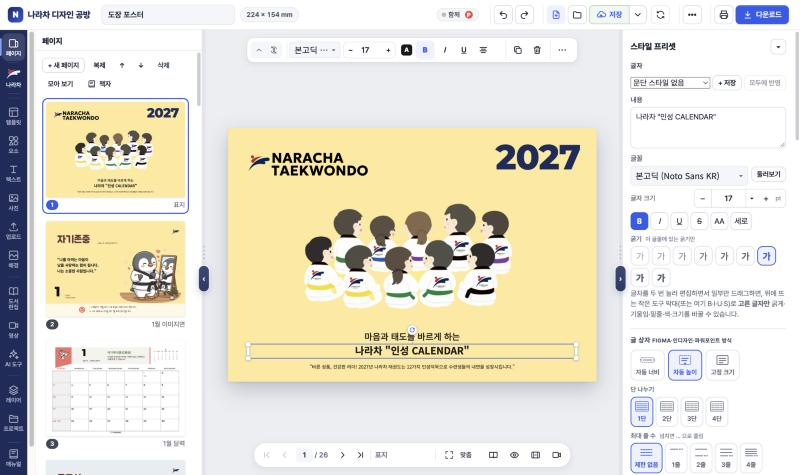
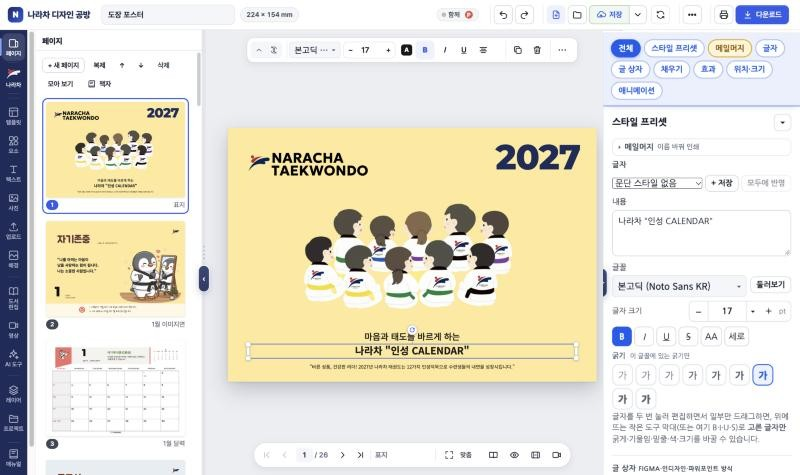
메일머지 이름표·라벨 모아 찍기(10~24칸)·엑셀 숫자 서식 · 매뉴얼 첫 그림 속성 탭 (20261127.1932)

Changed region(s): [[0.75, 0.2947, 1.0, 1.0], [0.75, 0.0589, 1.0, 0.2947], [0.875, 0.5011, 0.9688, 0.56]]

diff --git a/app.js b/app.js
@@ -4215,6 +4215,17 @@ function mmCsvParse(t) {
     if (ch === '"' && cell === '') q = true; else if (ch === sep) { rows[rows.length - 1].push(cell); cell = ''; } else if (ch === '\n') { rows[rows.length - 1].push(cell); cell = ''; rows.push([]); } else cell += ch; }
   rows[rows.length - 1].push(cell); return rows;
 }
+/* 엑셀 숫자 칸 서식 흉내 (11/27): 천 단위 쉼표 #,##0 · 소수 0.00 · 백분율 % · 따옴표 글자("원") — 엑셀 화면에 보이는 모양 그대로 메일머지에 */
+function xlNum(n, code) {
+  try { const secs = String(code).split(';'), neg = n < 0 && secs[1] != null; let c = (neg ? secs[1] : secs[0]).replace(/\[[^\]]*\]/g, ''); const v0 = neg ? Math.abs(n) : n;
+    const lit = []; const c2 = c.replace(/"([^"]*)"|\\(.)/g, (m, a, b) => { lit.push(a != null ? a : b); return '\u0001'; });
+    const m = c2.match(/[#0,.]*[#0][#0,.]*/); if (!m) return String(Number(n.toPrecision(15)));
+    const pat = m[0], [ip, fp = ''] = pat.split('.'), pct = /%/.test(c2), v = v0 * (pct ? 100 : 1);
+    const num = v.toLocaleString('en-US', { minimumIntegerDigits: Math.max(1, Math.min(21, (ip.match(/0/g) || []).length)), minimumFractionDigits: (fp.match(/0/g) || []).length, maximumFractionDigits: (fp.match(/[0#]/g) || []).length, useGrouping: /,/.test(ip) });
+    let k = 0; const fill = t => t.replace(/\u0001/g, () => lit[k++] || '').replace(/[_*]./g, '');
+    return (fill(c2.slice(0, m.index)) + num + fill(c2.slice(m.index + pat.length))).trim();
+  } catch (e) { return String(Number(n.toPrecision(15))); }
+}
 function xlDate(n, kind) { const d = new Date(Math.round((n - 25569) * 864e5)), y = d.getUTCFullYear(), m = d.getUTCMonth() + 1, dd = d.getUTCDate(); return kind === 'k' ? `${y}년 ${m}월 ${dd}일` : `${y}-${String(m).padStart(2, '0')}-${String(dd).padStart(2, '0')}`; }
 /* .xlsx 읽기 — 압축(JSZip)을 풀어 시트 XML을 직접 읽음(따로 큰 라이브러리 없이). 글자·숫자·날짜·참거짓·수식 결과 */
 async function xlsxSheets(buf) {
@@ -4224,7 +4235,8 @@ async function xlsxSheets(buf) {
   const ss = tags(X(await rd('xl/sharedStrings.xml')), 'si').map(si => tags(si, 't').filter(t => !(t.parentNode && t.parentNode.localName === 'rPh')).map(t => t.textContent).join(''));
   const st = X(await rd('xl/styles.xml')), fmt = {}; tags(st, 'numFmt').forEach(n => { fmt[n.getAttribute('numFmtId')] = n.getAttribute('formatCode') || ''; });
   const xfBox = tags(st, 'cellXfs')[0], xfs = (xfBox ? tags(xfBox, 'xf') : []).map(x => { const id = Number(x.getAttribute('numFmtId') || 0), code = (fmt[id] || '').replace(/"[^"]*"|\[[^\]]*\]|\\./g, ''), kr = /년/.test(fmt[id] || '');
-    if ((id >= 14 && id <= 17) || id === 22) return 'd'; if ((id >= 27 && id <= 36) || (id >= 50 && id <= 58)) return 'k'; return code && /[yd]/i.test(code) ? (kr ? 'k' : 'd') : ''; });
+    if ((id >= 14 && id <= 17) || id === 22) return 'd'; if ((id >= 27 && id <= 36) || (id >= 50 && id <= 58)) return 'k'; if (code && /[yd]/i.test(code)) return kr ? 'k' : 'd';
+    const bi = { 2: '0.00', 3: '#,##0', 4: '#,##0.00', 9: '0%', 10: '0.00%', 37: '#,##0', 38: '#,##0', 39: '#,##0.00', 40: '#,##0.00' }[id], fc = fmt[id] || bi; return fc && fc !== 'General' && /[0#]/.test(fc) ? { c: fc } : ''; });
   const out = [];
   for (const sh of tags(wb, 'sheet')) {
     const rid = [...sh.attributes].find(a => a.localName === 'id'), tg0 = rel[rid ? rid.value : ''] || ''; let tg = tg0.replace(/^\//, ''); if (!tg.startsWith('xl/')) tg = 'xl/' + tg;
@@ -4232,7 +4244,7 @@ async function xlsxSheets(buf) {
     tags(doc2, 'row').forEach(r => { const ri = Number(r.getAttribute('r')) - 1, row = [];
       tags(r, 'c').forEach((c, k) => { const L = ((c.getAttribute('r') || '').match(/^[A-Z]+/) || [''])[0], ci = L ? [...L].reduce((n, ch) => n * 26 + ch.charCodeAt(0) - 64, 0) - 1 : k; if (ci > 60) return;
         const t = c.getAttribute('t') || '', vEl = tags(c, 'v')[0], v = vEl ? vEl.textContent : ''; let val = '';
-        if (t === 's') val = ss[Number(v)] || ''; else if (t === 'inlineStr') val = tags(c, 't').map(x => x.textContent).join(''); else if (t === 'b') val = v === '1' ? 'TRUE' : 'FALSE'; else if (t === 'str') val = v; else if (t !== 'e' && v !== '') { const n = Number(v), df = xfs[Number(c.getAttribute('s') || 0)]; val = df && n > 0 && n < 2958466 ? xlDate(n, df) : String(Number(n.toPrecision(15))); }
+        if (t === 's') val = ss[Number(v)] || ''; else if (t === 'inlineStr') val = tags(c, 't').map(x => x.textContent).join(''); else if (t === 'b') val = v === '1' ? 'TRUE' : 'FALSE'; else if (t === 'str') val = v; else if (t !== 'e' && v !== '') { const n = Number(v), df = xfs[Number(c.getAttribute('s') || 0)]; val = typeof df === 'string' && df && n > 0 && n < 2958466 ? xlDate(n, df) : df && df.c ? xlNum(n, df.c) : String(Number(n.toPrecision(15))); }
         row[ci] = val; });
       if (ri >= 0 && ri < 5000) rows[ri] = row; else if (rows.length < 5000) rows.push(row); });
     out.push({ name: sh.getAttribute('name') || `시트${out.length + 1}`, hidden: sh.getAttribute('state') === 'hidden', rows: Array.from(rows, r => Array.from(r || [], v => v == null ? '' : String(v))) });
@@ -8180,7 +8192,7 @@ function prLayout() {
 }
 /* 모아 찍기 (워드 '한 면에 인쇄할 페이지 수'처럼, 11/19 팀장님 "A4에 출석부 2장"): 종이 방향·칸 배치(행×열)는 쪽이 가장 크게 들어가는 쪽으로 자동,
    '방향'을 세로·가로로 고르면 그 방향 안에서만. 칸마다 가운데, 크기 = 용지에 맞춤이면 칸에 맞게 줄임 · 실제 크기·배율은 그대로. 순서 = 가로 먼저(워드 기본)·세로 먼저 */
-const PR_NUP_GRID = { 2: [[1, 2], [2, 1]], 4: [[2, 2], [1, 4], [4, 1]], 6: [[2, 3], [3, 2]], 8: [[2, 4], [4, 2]], 16: [[4, 4]] };
+const PR_NUP_GRID = { 2: [[1, 2], [2, 1]], 4: [[2, 2], [1, 4], [4, 1]], 6: [[2, 3], [3, 2]], 8: [[2, 4], [4, 2]], 10: [[5, 2], [2, 5]], 12: [[4, 3], [3, 4]], 16: [[4, 4]], 21: [[7, 3], [3, 7]], 24: [[8, 3], [3, 8]] };  /* 10~24: 이름표·라벨(메일머지와 함께 — 한 장에 여러 사람, 11/27) */
 function prNupLayout(S, M) {
   const n = Number(S.nup) || 1, base = S.paper === 'doc' ? [doc.w, doc.h] : (PR_PAPERS[S.paper] || PR_PAPERS.A4), gap = Math.max(0, Number(S.nupGap) || 0);
   const ors = S.orient === 'p' ? [[Math.min(...base), Math.max(...base)]] : S.orient === 'l' ? [[Math.max(...base), Math.min(...base)]] : [[Math.min(...base), Math.max(...base)], [Math.max(...base), Math.min(...base)]];
@@ -8216,13 +8228,14 @@ function mmPrWho(S) { if (!(S && S.mm !== false && mmActive())) return null; con
 function pvHTML(S, list, L, pvI) {
   const C = doc.cert, PV = 340, mmpx = Math.min(PV / L.pw, (PV * 1.3) / L.ph); /* 미리 보기 1mm = mmpx px */
   const keepVis = []; if (C || doc.att) doc.pages.forEach(p => p.els.forEach(e => { if (e.certFrame) { keepVis.push(e.id); elVisOv.set(e.id, !!S.frame); } }));
-  const nup = L.cells ? L.nup : 1, nSh = Math.max(1, Math.ceil(list.length / nup)), sh = Math.min(S.pv, nSh - 1), kk = (L.w * mmpx) / (doc.w * MM), mmW = mmPrWho(S);  /* 메일머지: 미리 볼 사람 이름으로 */
-  const one = (pi, R) => `<div class="prpage" style="left:${R.x * mmpx}px;top:${R.y * mmpx}px;width:${R.w * mmpx}px;height:${R.h * mmpx}px"><div style="transform:scale(${kk});transform-origin:0 0;position:absolute;left:0;top:0">${sheetHTML(mmW ? Object.assign({}, doc.pages[pi], { _mm: mmW }) : doc.pages[pi], 'thumb')}</div></div>`;
-  let sheet = ''; try { if (L.cells) { list.slice(sh * nup, sh * nup + nup).forEach((pi, j) => { sheet += one(pi, L.cells[j]); }); if (S.nupCut) sheet += prCutLines(L).map(([x1, y1, x2, y2]) => `<div class="prcut" style="left:${Math.min(x1, x2) * mmpx}px;top:${Math.min(y1, y2) * mmpx}px;width:${Math.max(1, Math.abs(x2 - x1) * mmpx)}px;height:${Math.max(1, Math.abs(y2 - y1) * mmpx)}px"></div>`).join(''); } else if (pvI != null) sheet = one(pvI, L); } finally { keepVis.forEach(id => elVisOv.delete(id)); }
+  const mmW = mmPrWho(S), J = L.cells && mmW ? mmJobs(list, true) : null, LL = J || list;  /* 메일머지 + 모아 찍기: 한 장에 사람들이 차례로 (11/27 이름표·라벨) */
+  const nup = L.cells ? L.nup : 1, nSh = Math.max(1, Math.ceil(LL.length / nup)), sh = Math.min(S.pv, nSh - 1), kk = (L.w * mmpx) / (doc.w * MM);  /* 메일머지: 미리 볼 사람 이름으로 */
+  const one = (pi, R) => `<div class="prpage" style="left:${R.x * mmpx}px;top:${R.y * mmpx}px;width:${R.w * mmpx}px;height:${R.h * mmpx}px"><div style="transform:scale(${kk});transform-origin:0 0;position:absolute;left:0;top:0">${sheetHTML(typeof pi !== 'number' ? pi : mmW ? Object.assign({}, doc.pages[pi], { _mm: mmW }) : doc.pages[pi], 'thumb')}</div></div>`;
+  let sheet = ''; try { if (L.cells) { LL.slice(sh * nup, sh * nup + nup).forEach((pi, j) => { sheet += one(pi, L.cells[j]); }); if (S.nupCut) sheet += prCutLines(L).map(([x1, y1, x2, y2]) => `<div class="prcut" style="left:${Math.min(x1, x2) * mmpx}px;top:${Math.min(y1, y2) * mmpx}px;width:${Math.max(1, Math.abs(x2 - x1) * mmpx)}px;height:${Math.max(1, Math.abs(y2 - y1) * mmpx)}px"></div>`).join(''); } else if (pvI != null) sheet = one(pvI, L); } finally { keepVis.forEach(id => elVisOv.delete(id)); }
   const M = L.M, mgBox = `<div class="prmgline ${M.t || M.b || M.l || M.r ? '' : 'zero'}" style="left:${M.l * mmpx}px;top:${M.t * mmpx}px;right:${M.r * mmpx}px;bottom:${M.b * mmpx}px"></div>`
     + [['t', `left:0;right:0;top:${M.t * mmpx}px`], ['b', `left:0;right:0;bottom:${M.b * mmpx}px`], ['l', `top:0;bottom:0;left:${M.l * mmpx}px`], ['r', `top:0;bottom:0;right:${M.r * mmpx}px`]].map(([k, st]) => `<div class="prmgh prmgh-${k}" data-mgh="${k}" style="${st}" title="끌어서 ${({ t: '위', b: '아래', l: '왼쪽', r: '오른쪽' })[k]} 여백 바꾸기 (${M[k]}mm)"></div>`).join('');  /* 여백 선 끌기 (워드 눈금자처럼) */
   return `<div class="prpaper" style="width:${L.pw * mmpx}px;height:${L.ph * mmpx}px"><div class="prmargin" style="inset:${3 * mmpx}px" title="보통 프린터가 못 찍는 가장자리(약 3mm) — 테두리 없음이 아니면 이 밖은 잘릴 수 있음"></div>${sheet}${mgBox}</div>
-        <div class="prpvnav">${(L.cells ? nSh : list.length) > 1 ? pagerHTML('print', L.cells ? sh : S.pv, L.cells ? nSh : list.length, { sm: true, unit: L.cells ? '장' : '쪽' }) : ''}<span class="prpvlb">${!list.length ? '출력할 쪽이 없습니다' : L.cells ? `${nSh > 1 ? '' : '종이 1장 · '}${list.slice(sh * nup, sh * nup + nup).map(i => pgNo(i)).join('·')}쪽` : (list.length > 1 ? `문서 ${pgNo(pvI)}쪽` : `${list.length}쪽 (문서 ${pgNo(pvI)}쪽)`)}</span></div>
+        <div class="prpvnav">${(L.cells ? nSh : list.length) > 1 ? pagerHTML('print', L.cells ? sh : S.pv, L.cells ? nSh : list.length, { sm: true, unit: L.cells ? '장' : '쪽' }) : ''}<span class="prpvlb">${!list.length ? '출력할 쪽이 없습니다' : L.cells ? (J ? `${nSh > 1 ? '' : '종이 1장 · '}${esc(J.slice(sh * nup, sh * nup + nup).map(j => j._mm ? j._mm.n : '').filter(Boolean).filter((v, i, a) => a.indexOf(v) === i).slice(0, 4).join('·'))}${J.slice(sh * nup, sh * nup + nup).length > 4 ? ' …' : ''}` : `${nSh > 1 ? '' : '종이 1장 · '}${list.slice(sh * nup, sh * nup + nup).map(i => pgNo(i)).join('·')}쪽`) : (list.length > 1 ? `문서 ${pgNo(pvI)}쪽` : `${list.length}쪽 (문서 ${pgNo(pvI)}쪽)`)}</span></div>
         <p class="hint prsize">${L.cells ? `<b>한 장에 ${L.nup}쪽</b> (${L.rows}×${L.cols}, 종이 ${Math.round(L.pw)}×${Math.round(L.ph)} ${L.pw > L.ph ? '가로' : '세로'}) · ` : ''}디자인 ${Math.round(doc.w)}×${Math.round(doc.h)}mm → ${L.cells ? '한 칸에' : '종이에'} <b>${Math.round(L.w * 10) / 10}×${Math.round(L.h * 10) / 10}mm (${Math.round(L.k * 1000) / 10}%)</b>${L.note ? ` · <b style="color:#b3261e">${esc(L.note)}</b>` : ''}</p>`;
 }
 /* 여백 그림 (워드 여백 대화창의 미리 보기처럼): 종이와 여백 안쪽(찍히는 자리) */
@@ -8251,7 +8264,7 @@ function openPrint(pre) {
     const paperIc = (w, h) => { const k = 24 / Math.max(w, h); return VSV(`0 0 26 26`, `<rect x="${r1(13 - w * k / 2)}" y="${r1(13 - h * k / 2)}" width="${r1(w * k)}" height="${r1(h * k)}" rx="1" fill="#fff" stroke-width="1.2"/>`, 26, 26); };
     const PIC = { p: paperIc(21, 29.7), l: paperIc(29.7, 21), auto: VSV('0 0 26 26', '<rect x="6" y="2" width="14" height="20" rx="1" fill="#fff" stroke-width="1.1"/><path d="M19 15a7 7 0 0 1-9 6" stroke-dasharray="2 1.4"/><path d="M11 18.5 9.8 21.4l3 .6"/>', 26, 26),
       fit: VSV('0 0 26 26', '<rect x="5" y="2" width="16" height="22" rx="1" fill="#fff" stroke-width="1.1"/><rect x="7" y="4" width="12" height="18" fill="currentColor" stroke="none" opacity=".35"/>', 26, 26), actual: VSV('0 0 26 26', '<rect x="5" y="2" width="16" height="22" rx="1" fill="#fff" stroke-width="1.1"/><rect x="9" y="7" width="8" height="11" fill="currentColor" stroke="none" opacity=".35"/>', 26, 26), custom: VSV('0 0 26 26', '<rect x="5" y="2" width="16" height="22" rx="1" fill="#fff" stroke-width="1.1"/><path d="M9 17 17 9"/><circle cx="9.5" cy="9.5" r="1.4"/><circle cx="16.5" cy="16.5" r="1.4"/>', 26, 26),
-      nup: n => { const [c, r] = { 1: [1, 1], 2: [1, 2], 4: [2, 2], 6: [2, 3], 8: [2, 4] }[n]; return VSV('0 0 26 26', `<rect x="5" y="2" width="16" height="22" rx="1" fill="#fff" stroke-width="1.1"/>` + Array.from({ length: c * r }, (_, i) => `<rect x="${r1(6.5 + (i % c) * 13 / c)}" y="${r1(3.5 + Math.floor(i / c) * 19 / r)}" width="${r1(13 / c - 1)}" height="${r1(19 / r - 1)}" fill="currentColor" stroke="none" opacity=".32"/>`).join(''), 26, 26); },
+      nup: n => { const [c, r] = { 1: [1, 1], 2: [1, 2], 4: [2, 2], 6: [2, 3], 8: [2, 4], 10: [2, 5], 12: [3, 4], 16: [4, 4], 21: [3, 7], 24: [3, 8] }[n]; return VSV('0 0 26 26', `<rect x="5" y="2" width="16" height="22" rx="1" fill="#fff" stroke-width="1.1"/>` + Array.from({ length: c * r }, (_, i) => `<rect x="${r1(6.5 + (i % c) * 13 / c)}" y="${r1(3.5 + Math.floor(i / c) * 19 / r)}" width="${r1(13 / c - 1)}" height="${r1(19 / r - 1)}" fill="currentColor" stroke="none" opacity=".32"/>`).join(''), 26, 26); },
       feed: k => VSV('0 0 26 26', `<rect x="5" y="2" width="16" height="22" rx="1" fill="#fff" stroke-width="1.1"/><text x="13" y="16.5" font-size="9" text-anchor="middle" fill="currentColor" stroke="none" font-weight="700" transform="rotate(${k === 'cw' ? -90 : k === 'ccw' ? 90 : 0} 13 13)">가</text>`, 26, 26) };
     d.innerHTML = `<div class="dhead"><h2>🖨 출력 <small>${prKey === 'naracal-print-cert' ? '상장용 설정(따로 기억) · ' : prKey === 'naracal-print-att' ? '출석부용 설정(따로 기억) · ' : ''}${list.length}쪽 · ${esc(S.paper === 'doc' ? '문서 크기' : S.paper)} ${L.pw > L.ph ? '가로' : '세로'} · ${{ fit: '맞춤', fill: '꽉 채움', actual: '실제 크기', pct: (S.pct || 100) + '%' }[S.fit] || esc(S.fit || '')} · 여백 ${(() => { const M = prMg(S), f = v => Math.round(v * 10) / 10; return M.t === M.b && M.t === M.l && M.t === M.r ? f(M.t) + 'mm' : `위${f(M.t)}·아래${f(M.b)}·왼${f(M.l)}·오른${f(M.r)}mm`; })()}${Number(S.nup) > 1 ? ` · ${S.nup}장 모아` : ''}</small></h2><button class="btn sm" data-close>닫기</button></div><div class="dbody prdlg2">
       <div class="prpv">${pvHTML_}</div>
@@ -8270,7 +8283,7 @@ function openPrint(pre) {
         <div class="prrow"><span>방향</span>${seg('orient', [['auto', '자동', '문서 모양에 맞춰 저절로', PIC.auto], ['p', '세로', '세로 종이', PIC.p], ['l', '가로', '가로 종이', PIC.l]])}</div>
         <div class="prrow prfeed"><span>종이 넣는 방향</span>${seg('feed', [['none', '그대로', '글자가 바로 찍힐 때', PIC.feed('none')], ['cw', '↻ 90°', '찍힌 글자의 윗부분이 왼쪽을 보며 누웠을 때(그림처럼) — 쪽을 시계 방향으로 돌려 세로 종이로 보냄', PIC.feed('cw')], ['ccw', '↺ 90°', '찍힌 글자의 윗부분이 오른쪽을 보며 누웠을 때(그림처럼) — 쪽을 시계 반대 방향으로 돌려 세로 종이로 보냄', PIC.feed('ccw')]])}<small class="hint" style="margin:0;flex-basis:100%" title="글자가 옆으로 누워 찍히면 돌려 보내세요 — 글자 윗부분이 왼쪽을 보면 ↻, 오른쪽을 보면 ↺">${S.feed && S.feed !== 'none' ? `쪽을 돌려 <b>세로 ${Math.round(L.ph)}×${Math.round(L.pw)}mm</b>로 보냅니다 — 프린터 창의 용지도 세로(${Math.round(Math.min(L.pw, L.ph))}×${Math.round(Math.max(L.pw, L.ph))})로 두세요.` : ''}</small></div>
         <div class="prrow"><span>크기</span>${seg('fit', [['fit', '용지에 맞춤', '여백 안에 꽉 차게 늘리거나 줄임', PIC.fit], ['actual', '실제 크기', '문서 크기 그대로 100% — 상장 용지·출석부 용지', PIC.actual], ['custom', '배율', '직접 % 정하기', PIC.custom]])}${S.fit === 'custom' ? `<input type="number" id="prPct" min="5" max="400" step="1" value="${S.pct}" style="width:64px"> %` : ''}</div>
-        <div class="prrow prnup"><span>모아 찍기</span>${seg('nup', [['1', '1쪽', '종이 한 장에 1쪽', PIC.nup(1)], ['2', '2쪽', '종이 한 장에 2쪽', PIC.nup(2)], ['4', '4쪽', '종이 한 장에 4쪽', PIC.nup(4)], ['6', '6쪽', '종이 한 장에 6쪽', PIC.nup(6)], ['8', '8쪽', '종이 한 장에 8쪽', PIC.nup(8)]])}${doc.att ? '<button type="button" class="btn sm" data-prnup="att" title="A4 종이 한 장에 출석부 두 장 (위아래) — 잘라서 씀">A4에 출석부 2장</button>' : ''}<small class="hint" style="margin:0;flex-basis:100%">${(Number(S.nup) || 1) > 1 ? `종이 한 장에 ${S.nup}쪽 — 칸 ${L.rows}×${L.cols}, 쪽 크기 ${Math.round(L.k * 1000) / 10}%${L.k < 0.999 && L.k > 0.95 ? ' (칸에 맞게 조금 줄임)' : ''}` : '워드의 「한 면에 인쇄할 페이지 수」처럼 — 종이 한 장에 여러 쪽을 줄여 모아 찍습니다.'}</small>
+        <div class="prrow prnup"><span>모아 찍기</span>${seg('nup', [['1', '1쪽', '종이 한 장에 1쪽', PIC.nup(1)], ['2', '2쪽', '종이 한 장에 2쪽', PIC.nup(2)], ['4', '4쪽', '종이 한 장에 4쪽', PIC.nup(4)], ['6', '6쪽', '종이 한 장에 6쪽', PIC.nup(6)], ['8', '8쪽', '종이 한 장에 8쪽', PIC.nup(8)]])}<div class="prnup-more"><span class="hint" style="margin:0">이름표·라벨</span>${seg('nup', [['10', '10', '종이 한 장에 10쪽 (2×5 — 명함 용지)', PIC.nup(10)], ['12', '12', '종이 한 장에 12쪽 (3×4)', PIC.nup(12)], ['16', '16', '종이 한 장에 16쪽 (4×4)', PIC.nup(16)], ['21', '21', '종이 한 장에 21쪽 (3×7 — 주소 라벨)', PIC.nup(21)], ['24', '24', '종이 한 장에 24쪽 (3×8 — 라벨)', PIC.nup(24)]])}</div>${doc.att ? '<button type="button" class="btn sm" data-prnup="att" title="A4 종이 한 장에 출석부 두 장 (위아래) — 잘라서 씀">A4에 출석부 2장</button>' : ''}<small class="hint" style="margin:0;flex-basis:100%">${(Number(S.nup) || 1) > 1 ? `종이 한 장에 ${S.nup}쪽 — 칸 ${L.rows}×${L.cols}, 쪽 크기 ${Math.round(L.k * 1000) / 10}%${L.k < 0.999 && L.k > 0.95 ? ' (칸에 맞게 조금 줄임)' : ''}` : '워드의 「한 면에 인쇄할 페이지 수」처럼 — 종이 한 장에 여러 쪽을 줄여 모아 찍습니다.'}</small>
           ${(Number(S.nup) || 1) > 1 ? `<div class="row" style="gap:10px;flex-basis:100%;flex-wrap:wrap;align-items:center"><span class="hint" style="margin:0">순서</span>${seg('nupOrder', [['row', '가로 먼저 →'], ['col', '세로 먼저 ↓']])}<label class="hint" style="margin:0">사이 <input type="number" id="prNupGap" min="0" max="30" step="0.5" value="${Number(S.nupGap) || 0}" style="width:54px">mm</label><label class="chk" style="margin:0"><input type="checkbox" id="prNupCut" ${S.nupCut ? 'checked' : ''}> 자르는 선</label></div>` : ''}</div>
         </div><div class="prcolB">
         <div class="prrow"><span>빠른 설정</span><div class="pk">${[['safe', '여백 안에 맞춤', '추천 — 프린터가 못 찍는 가장자리를 피해 여백 4mm 안에 맞춤', '<rect x="5" y="2" width="16" height="22" rx="1" fill="#fff" stroke-width="1.1"/><rect x="7.5" y="4.5" width="11" height="17" fill="currentColor" stroke="none" opacity=".35"/><path d="M5 2l2.5 2.5M21 2l-2.5 2.5" stroke-width=".8"/>'], ['full', '꽉 채움', "테두리 없음 — 프린터에서 '테두리 없음'을 켠 경우", '<rect x="5" y="2" width="16" height="22" rx="1" fill="currentColor" stroke-width="1.1" fill-opacity=".35"/>'], ['exact', '실제 100%', '틀이 인쇄된 상장 용지에 글자만 — 크기 그대로', '<rect x="5" y="2" width="16" height="22" rx="1" fill="#fff" stroke-width="1.1"/><text x="13" y="16" font-size="7" text-anchor="middle" fill="currentColor" stroke="none" font-weight="700">1:1</text>']].map(([k, t, ti, svg]) => `<button type="button" class="pk-b" data-prset="${k}" title="${ti}"><span class="pk-ic">${VSV('0 0 26 26', svg, 26, 26)}</span><span class="pk-t">${t}</span></button>`).join('')}</div></div>

diff --git a/manual.js b/manual.js
@@ -5,7 +5,7 @@ window.NC_MANUAL = [
   { id: 'start', icon: '🧭', title: '처음 시작 — 화면 둘러보기', when: '처음 한 번', sum: '공방 화면이 어떻게 생겼는지, 무엇을 어디서 누르는지 먼저 봅니다.',
     steps: [
       { t: '화면 한눈에 보기', d: '오른쪽 <b>속성 창 맨 위의 탭</b>(전체 · 스타일 프리셋 · 메일머지 · 글자 · 글 상자 · 채우기 · 효과 · 위치·크기 · 애니메이션 — 고른 요소에 따라 다름)을 누르면 그 칸만 보입니다(「전체」 = 모두, 고른 탭은 다른 요소를 골라도 그대로). 왼쪽 <b>세로 메뉴</b>에서 할 일을 고르면 그 옆 <b>패널</b>이 바뀝니다. 가운데는 만드는 <b>쪽(캔버스)</b>, 오른쪽은 고른 것의 <b>속성</b>입니다. 위 막대에는 문서 이름 옆에 <b>지금 문서 크기</b>(예: 210 × 297 mm, 800 × 1280 px — 누르면 크기 조정)가 보이고, 오른쪽에 되돌리기 · 새 문서·열기(그림 단추) · <b>저장 ▾</b> · 동기화(구글 로그인 저장일 때 — 올릴 문서 수나 노란 ! 가 붙으면 눌러 맞추기) · <b>⋯ 더보기</b>(크기 조정·공휴일·글꼴 관리·도움말) · 출력 · <b>다운로드</b>가 있습니다. 다른 PC가 같은 문서를 열면 위 막대에 <b>● 함께</b>와 그 PC 첫 글자 동그라미가 보입니다(마우스를 올리면 어느 PC·몇 쪽·저장 담당). 단추 이름은 마우스를 올리면 나옵니다. 쪽 위에 떠 있는 <b>도구 막대</b>가 쪽을 가리면 막대 맨 앞 단추로 <b>세로로</b>(왼쪽에 붙음) 바꾸거나 <b>접을</b> 수 있습니다(접으면 작업 화면 왼쪽 위 모서리에 작게 붙고, 🛠를 누르면 다시 펴짐 — 이 PC가 기억). 글 상자를 <b>한 번 고른 채 바로 글자를 치면</b> 그 글로 바뀝니다(PowerPoint처럼 — 되돌리기 ⌘Z), 글 일부만 고치려면 두 번 누르세요.', img: 'm01-overview.jpg',
-        marks: [[2, 50, '세로 메뉴 — 페이지·나라차 | 템플릿~배경 | 도서·영상·AI | 레이어·프로젝트'], [2, 16.4, '나라차 — 소식지·상장·캘린더 등 나라차 전용 기능'], [18, 53, '패널 — 고른 메뉴의 내용'], [55, 61, '작업 화면 — 글·그림을 눌러 고르고 끌어 옮김, 두 번 누르면 글 고치기'], [55, 13, '떠 있는 도구 막대 — 글꼴·크기·정렬·복제·삭제 (맨 앞 단추: 접기·세로로)'], [89, 50, '속성 — 고른 요소의 색·크기·효과'], [33.7, 3.3, '지금 문서 크기 — 누르면 크기 조정'], [57.2, 3.3, '함께 — 같은 문서를 연 다른 PC (실시간)'], [70.8, 3.3, '새 문서 · 열기'], [76.1, 3.3, '저장 ▾ (자동 저장됨 · 드라이브 저장)'], [82.6, 3.3, '동기화 — 숫자·! 가 붙으면 눌러 맞추기'], [86.5, 3.3, '⋯ 더보기 — 크기 조정·공휴일·글꼴·도움말'], [90.5, 3.3, '프린터로 바로 출력'], [95.3, 3.3, '다운로드 — PDF·이미지·영상']], go: [['tpl', '템플릿 열기']] },
+        marks: [[2, 50, '세로 메뉴 — 페이지·나라차 | 템플릿~배경 | 도서·영상·AI | 레이어·프로젝트'], [2, 16.4, '나라차 — 소식지·상장·캘린더 등 나라차 전용 기능'], [18, 53, '패널 — 고른 메뉴의 내용'], [55, 61, '작업 화면 — 글·그림을 눌러 고르고 끌어 옮김, 두 번 누르면 글 고치기'], [55, 13, '떠 있는 도구 막대 — 글꼴·크기·정렬·복제·삭제 (맨 앞 단추: 접기·세로로)'], [89, 50, '속성 — 고른 요소의 색·크기·효과'], [87.5, 14, '속성 탭 — 누르면 그 칸만 (전체·스타일 프리셋·메일머지·글자…)'], [33.7, 3.3, '지금 문서 크기 — 누르면 크기 조정'], [57.2, 3.3, '함께 — 같은 문서를 연 다른 PC (실시간)'], [70.8, 3.3, '새 문서 · 열기'], [76.1, 3.3, '저장 ▾ (자동 저장됨 · 드라이브 저장)'], [82.6, 3.3, '동기화 — 숫자·! 가 붙으면 눌러 맞추기'], [86.5, 3.3, '⋯ 더보기 — 크기 조정·공휴일·글꼴·도움말'], [90.5, 3.3, '프린터로 바로 출력'], [95.3, 3.3, '다운로드 — PDF·이미지·영상']], go: [['tpl', '템플릿 열기']] },
       { t: '나라차 전용 기능 모음', d: '세로 메뉴 두 번째 <b>나라차</b>(로고 아이콘)를 누르면 자주 쓰는 순서대로 <b>소식지 → 상장 → 출석부 → 캘린더</b>와 반복 일정·도장 정보·자료실이 모여 있습니다. 상장·출석부·소식지 안에서는 <b>‹ 나라차</b>로 돌아옵니다.', img: 'm02-naracha.jpg',
         marks: [[2, 18.6, '나라차 메뉴'], [18, 24.3, '소식지 — 매달'], [18, 37, '상장 — 측정·심사 뒤'], [18, 50.6, '출석부 — 연말·새 관원'], [18, 64.3, '캘린더 — 1년에 한 번'], [18, 78, '반복 일정·연간 행사'], [18, 92, '도장 정보 (전화·주소 자동 채우기)']], go: [['nara', '나라차 열기']] },
       { t: '홈 — 로고를 누르면', d: '왼쪽 위 <b>N 나라차 디자인 공방</b> 로고를 누르면 <b>홈</b>이 열립니다. 맨 위 <b>지금 작업 중</b>인 디자인으로 바로 돌아가기(문서를 닫았거나 빈 문서면 이 칸은 없음), <b>무엇을 만들어 볼까요?</b>(인쇄·소셜 미디어·프레젠테이션·영상·현수막·캘린더·소식지·문서 — 누르면 그 크기 목록이 열린 새 문서 창), 템플릿에서 고르기·내 드라이브 열기(다른 프로그램 파일 가져오기는 오른쪽 위 단추), 그리고 <b>최근 문서</b>(동기화 폴더를 연결했으면 저장한 디자인, 아니면 이 브라우저에 남아 있는 문서 — 누르면 열림). 저장한 파일을 고르는 「열기」는 위 막대의 폴더 단추(내 드라이브)입니다. 새 문서 창의 <b>명함·엽서·쿠폰·명찰·A5·B5·A2·현수막</b>처럼 한 방향만 있던 크기 카드 아래에는 <b>가로 · 세로</b>가 있어, 눌러서 바로 그 방향으로 만듭니다(마우스를 올리면 카드 그림도 바뀜). 이미 만든 문서는 저장 ▾ → 크기 조정의 가로·세로 바꾸기로.', img: 'm94-home.jpg',
@@ -121,9 +121,9 @@ window.NC_MANUAL = [
         marks: [[20, 50, '종이 미리 보기'], [49, 33.5, '빠른 설정 — 여백 안에 맞춤'], [62, 45.5, '크기'], [57, 52.5, '여백'], [75.5, 84, '출력']], go: [['print', '출력 창 열기']] },
       { stage: '⑤ 내기·출력', t: '출력 창 — 그림으로 고르기', d: '출력 창의 <b>용지</b>(A4·A3·B5·Letter·문서 크기를 실제 비율의 종이 그림으로), <b>방향</b>(자동·세로·가로), <b>종이 넣는 방향</b>(「가」 글자가 누운 모양 그대로 — 찍힌 종이와 같은 그림을 고르면 됨), <b>크기</b>(용지에 맞춤·실제 크기·배율), <b>모아 찍기</b>(종이를 1·2·4·6·8칸으로 나눈 그림)를 그림 단추로 고릅니다. 미리 보기 아래 쪽 넘김 막대에 번호를 쓰고 Enter를 누르면 그 쪽을 바로 봅니다.', img: 'm67-print-visual.jpg',
         marks: [[60, 30, '용지 — 종이 비율 그림'], [52, 41, '방향'], [67, 51.5, '종이 넣는 방향 — 「가」가 누운 모양'], [60, 63, '크기'], [60, 74, '모아 찍기'], [20, 88, '쪽 넘김 막대']], go: [['print', '출력 창 열기']] },
-      { stage: '⑤ 내기·출력', t: '✉ 메일머지 — 재원생 이름 바꿔 인쇄 (엽서·안내문)', d: '엽서·편지처럼 <b>사람마다 이름만 다른 문서</b>는 200쪽을 만들지 않고 1쪽으로 만듭니다. ① 글 상자(또는 표)를 고르면 오른쪽 속성 창 맨 위에 <b>메일머지</b> 탭이 나옵니다 — 글에 「[수련생 이름]」 같은 자리가 있으면 <b>{이름}</b>·<b>{이름만}</b> 단추로 한 번에 바꿉니다. 다른 자리에 넣으려면 글 상자(표는 칸)를 두 번 눌러 커서를 둔 뒤 <b>칸 넣기</b>를 누르세요(표는 칸을 한 번 눌러 고른 뒤 누르면 그 칸 끝에 들어감): <b>{이름}</b>(김나라) · <b>{이름만}</b>(나라 — 남궁·황보 같은 두 글자 성도 앎) · <b>{성}</b> · <b>{이름만+아}</b>(부를 때 — 나라야·민준아) · <b>{이름만+이}</b>(나라·민준이 — 「민준이에게」) · <b>{반}</b> · <b>{띠급}</b> · <b>{학년}</b>. ② <b>관리프로그램 명단</b> — 출석부처럼 재원생 전체·반별·이름 검색으로 고르고 체크를 풀면 빠집니다(문서에는 이름·반·띠급·학년만 남음). 엑셀 파일로 하려면 바로 아래 「📊 엑셀·CSV 파일로 메일머지」를 보세요. 동명이인 구분용으로 이름 끝에 붙인 영어 글자(김민준A·김민준 B)는 <b>찍히지 않습니다</b> — 명단·고르기 화면에는 그대로 보여 구분됩니다(상장 이름도 같음). 명단을 넣은 뒤 <b>명단 보기 · 빼기</b>를 펼치면 들어간 사람이 모두 보이고, 체크를 풀면 그 사람은 찍지 않습니다(같은 이름 두 사람도 따로). ③ 편집 화면의 칸은 <b>노란 표시</b>, 명단을 고르면 <b>미리보기</b>(‹ ›로 사람을 넘겨 보기 · <b>가장 긴 이름 보기</b>로 줄이 넘치지 않는지 한 번에 확인 · 끄기). 200명도 1분쯤이면 다 그립니다. ④ <b>출력</b> 창의 노란 <b>메일머지</b> 칸에서 찍을 사람을 고릅니다 — <b>모두</b> · <b>번호로</b>(명단 번호 예: 1-20, 25 — 50명씩 나눠 찍을 때) · <b>골라서</b>(이름 단추를 눌러 넣고 빼기, 반 단추로 그 반만). 아래 「N명 × 쪽 = 총 쪽」과 ‹ ›로 그 사람 이름이 든 미리 보기를 확인하고(찍을 사람 중 값이 빈 칸이 있으면 「ℹ 값이 빈 사람 — {{보호자}} 1명(박서연)」처럼 알려 줌) 출력하면 프린터 창으로 갑니다. <b>다운로드</b>의 「메일머지」도 출력 창에서 고른 범위를 따릅니다. 사람마다 한 장씩(PDF는 N쪽, 그림은 이름 붙은 파일 ZIP · 다운로드에서 PDF를 고르고 <b>사람마다 PDF 따로</b>를 켜면 이름별 PDF 파일들이 ZIP 하나에 — 학부모님께 한 명씩 보낼 때) — 문서는 1쪽 그대로입니다. PowerPoint는 메일머지 없이 그대로 나갑니다.', img: 'm107-mailmerge.jpg',
+      { stage: '⑤ 내기·출력', t: '✉ 메일머지 — 재원생 이름 바꿔 인쇄 (엽서·안내문)', d: '엽서·편지처럼 <b>사람마다 이름만 다른 문서</b>는 200쪽을 만들지 않고 1쪽으로 만듭니다. ① 글 상자(또는 표)를 고르면 오른쪽 속성 창 맨 위에 <b>메일머지</b> 탭이 나옵니다 — 글에 「[수련생 이름]」 같은 자리가 있으면 <b>{이름}</b>·<b>{이름만}</b> 단추로 한 번에 바꿉니다. 다른 자리에 넣으려면 글 상자(표는 칸)를 두 번 눌러 커서를 둔 뒤 <b>칸 넣기</b>를 누르세요(표는 칸을 한 번 눌러 고른 뒤 누르면 그 칸 끝에 들어감): <b>{이름}</b>(김나라) · <b>{이름만}</b>(나라 — 남궁·황보 같은 두 글자 성도 앎) · <b>{성}</b> · <b>{이름만+아}</b>(부를 때 — 나라야·민준아) · <b>{이름만+이}</b>(나라·민준이 — 「민준이에게」) · <b>{반}</b> · <b>{띠급}</b> · <b>{학년}</b>. ② <b>관리프로그램 명단</b> — 출석부처럼 재원생 전체·반별·이름 검색으로 고르고 체크를 풀면 빠집니다(문서에는 이름·반·띠급·학년만 남음). 엑셀 파일로 하려면 바로 아래 「📊 엑셀·CSV 파일로 메일머지」를 보세요. 동명이인 구분용으로 이름 끝에 붙인 영어 글자(김민준A·김민준 B)는 <b>찍히지 않습니다</b> — 명단·고르기 화면에는 그대로 보여 구분됩니다(상장 이름도 같음). 명단을 넣은 뒤 <b>명단 보기 · 빼기</b>를 펼치면 들어간 사람이 모두 보이고, 체크를 풀면 그 사람은 찍지 않습니다(같은 이름 두 사람도 따로). ③ 편집 화면의 칸은 <b>노란 표시</b>, 명단을 고르면 <b>미리보기</b>(‹ ›로 사람을 넘겨 보기 · <b>가장 긴 이름 보기</b>로 줄이 넘치지 않는지 한 번에 확인 · 끄기). 200명도 1분쯤이면 다 그립니다. ④ <b>출력</b> 창의 노란 <b>메일머지</b> 칸에서 찍을 사람을 고릅니다 — <b>모두</b> · <b>번호로</b>(명단 번호 예: 1-20, 25 — 50명씩 나눠 찍을 때) · <b>골라서</b>(이름 단추를 눌러 넣고 빼기, 반 단추로 그 반만). 아래 「N명 × 쪽 = 총 쪽」과 ‹ ›로 그 사람 이름이 든 미리 보기를 확인하고(찍을 사람 중 값이 빈 칸이 있으면 「ℹ 값이 빈 사람 — {{보호자}} 1명(박서연)」처럼 알려 줌) 출력하면 프린터 창으로 갑니다. <b>다운로드</b>의 「메일머지」도 출력 창에서 고른 범위를 따릅니다. 사람마다 한 장씩(PDF는 N쪽, 그림은 이름 붙은 파일 ZIP · 다운로드에서 PDF를 고르고 <b>사람마다 PDF 따로</b>를 켜면 이름별 PDF 파일들이 ZIP 하나에 — 학부모님께 한 명씩 보낼 때) — 문서는 1쪽 그대로입니다. PowerPoint는 메일머지 없이 그대로 나갑니다. <b>이름표·라벨</b>: 이름표 크기(예: 90×50mm)로 문서를 만들고 {이름}을 넣은 뒤, 출력 창 <b>모아 찍기 → 이름표·라벨</b>에서 10(2×5 명함 용지)·12·16·21(3×7 주소 라벨)·24(3×8)를 고르면 종이 한 장에 여러 사람이 차례로 찍힙니다(왼쪽 미리 보기에서 장마다 확인).', img: 'm107-mailmerge.jpg',
         marks: [[50, 14, '명단 — 관리프로그램 · 엑셀'], [50, 54, '칸 넣기 — 누르면 커서 자리에'], [50, 80, '미리보기 ‹ 사람 ›']] },
-      { stage: '⑤ 내기·출력', t: '📊 엑셀·CSV 파일로 메일머지 (아래한글 메일 머지 방식)', d: '관리프로그램에 없는 명단(행사 참가자·보호자 이름·날짜 등)은 <b>엑셀 파일</b>로 메일머지합니다. 아래한글 메일 머지와 같은 방식이에요. ① 엑셀의 <b>첫 줄에 열 이름</b>(예: 성명 · 반 · 보호자 · 참가일)을 쓰고 둘째 줄부터 한 사람에 한 줄씩 씁니다. ② 공방 속성 창 <b>메일머지</b> 탭 → <b>📊 엑셀·CSV 파일</b> → 파일 고르기(.xlsx · CSV). 시트가 여러 개면 <b>시트</b>를 고르고, <b>이름 열</b>은 저절로 찾습니다(성명·이름 등 — 틀리면 바꾸기). 맨 위에 「2026 송년회 명단」 같은 제목 줄이 있어도 <b>열 이름 줄</b>을 저절로 찾습니다(틀리면 「열 이름 줄」에서 고르기). 열 이름 줄이 없는 파일이면 「열 이름 줄이 있음」 체크를 풀면 {{1}}·{{2}}(몇째 열)로 씁니다. ③ <b>찍을 줄(레코드) 고르기</b> — 체크를 풀면 그 줄은 빠집니다(모두 체크·모두 해제). 「이 N줄로 메일머지」. ④ 문서에 <b>표시 달기</b>: 속성 창의 초록 <b>{{열 이름}}</b> 단추를 글 상자·표 칸의 커서 자리에 넣거나, 글에 <b>{{보호자}}</b>처럼 그대로 써도 됩니다. 아래한글처럼 글을 쓰는 중 <b>Ctrl+K, M</b>(맥 ⌘K, M)을 누르면 커서 아래에 표시 목록이 떠서 ↑↓·Enter로 넣습니다. 이름 열은 <b>{이름}·{이름만}·{이름만+아}</b>에도 쓰입니다. 명단에 없는 표시는 <b>빨간 표시</b>와 ⚠ 알림 — 빈칸으로 찍히니 열 이름과 똑같이 고치세요. ⑤ 미리보기·출력·다운로드는 관리프로그램 명단과 같습니다(출력 창에서 모두·번호로·골라서). 날짜 칸은 엑셀 형식에 따라 「2026년 12월 20일」 또는 「2026-12-20」으로 나옵니다. 예전 엑셀(.xls)·한셀 파일은 「다른 이름으로 저장 → Excel 통합 문서(.xlsx)」로 바꿔서 고르세요. 파일은 이 PC에서만 읽고, 문서에는 고른 줄의 값만 남습니다.', img: 'm108-mailmerge-excel.jpg',
+      { stage: '⑤ 내기·출력', t: '📊 엑셀·CSV 파일로 메일머지 (아래한글 메일 머지 방식)', d: '관리프로그램에 없는 명단(행사 참가자·보호자 이름·날짜 등)은 <b>엑셀 파일</b>로 메일머지합니다. 아래한글 메일 머지와 같은 방식이에요. ① 엑셀의 <b>첫 줄에 열 이름</b>(예: 성명 · 반 · 보호자 · 참가일)을 쓰고 둘째 줄부터 한 사람에 한 줄씩 씁니다. ② 공방 속성 창 <b>메일머지</b> 탭 → <b>📊 엑셀·CSV 파일</b> → 파일 고르기(.xlsx · CSV). 시트가 여러 개면 <b>시트</b>를 고르고, <b>이름 열</b>은 저절로 찾습니다(성명·이름 등 — 틀리면 바꾸기). 맨 위에 「2026 송년회 명단」 같은 제목 줄이 있어도 <b>열 이름 줄</b>을 저절로 찾습니다(틀리면 「열 이름 줄」에서 고르기). 열 이름 줄이 없는 파일이면 「열 이름 줄이 있음」 체크를 풀면 {{1}}·{{2}}(몇째 열)로 씁니다. ③ <b>찍을 줄(레코드) 고르기</b> — 체크를 풀면 그 줄은 빠집니다(모두 체크·모두 해제). 「이 N줄로 메일머지」. ④ 문서에 <b>표시 달기</b>: 속성 창의 초록 <b>{{열 이름}}</b> 단추를 글 상자·표 칸의 커서 자리에 넣거나, 글에 <b>{{보호자}}</b>처럼 그대로 써도 됩니다. 아래한글처럼 글을 쓰는 중 <b>Ctrl+K, M</b>(맥 ⌘K, M)을 누르면 커서 아래에 표시 목록이 떠서 ↑↓·Enter로 넣습니다. 이름 열은 <b>{이름}·{이름만}·{이름만+아}</b>에도 쓰입니다. 명단에 없는 표시는 <b>빨간 표시</b>와 ⚠ 알림 — 빈칸으로 찍히니 열 이름과 똑같이 고치세요. ⑤ 미리보기·출력·다운로드는 관리프로그램 명단과 같습니다(출력 창에서 모두·번호로·골라서). 날짜 칸은 엑셀 형식에 따라 「2026년 12월 20일」 또는 「2026-12-20」으로, 숫자 칸은 엑셀에 보이는 모양 그대로(30,000원 · 95% · 07) 나옵니다. 예전 엑셀(.xls)·한셀 파일은 「다른 이름으로 저장 → Excel 통합 문서(.xlsx)」로 바꿔서 고르세요. 파일은 이 PC에서만 읽고, 문서에는 고른 줄의 값만 남습니다.', img: 'm108-mailmerge-excel.jpg',
         marks: [[12, 31, '시트 · 이름 열'], [5, 64, '찍을 줄 고르기'], [26, 88, '문서에 달 표시 {{열 이름}}'], [89, 94, '메일머지 시작']] },
     ] },
 { id: 'book', icon: '📖', title: '책자·안내 책 만들기 (쪽 번호·목차·소책자)', when: '수련 안내·대회 책자', sum: '여러 쪽을 다루고, 인디자인처럼 쪽 번호·머리글·목차를 넣어 접어 묶는 소책자로 뽑습니다.',

diff --git a/index.html b/index.html
@@ -17,7 +17,7 @@
 <meta property="og:type" content="website">
 <link rel="preload" href="fonts/NanumGothic.woff2" as="font" type="font/woff2" crossorigin><link rel="preload" href="fonts/NanumGothic-Bold.woff2" as="font" type="font/woff2" crossorigin>
 <link rel="stylesheet" href="fonts/fonts.css?v=73bafcd29e">
-<link rel="stylesheet" href="app.css?v=20261127.1925">
+<link rel="stylesheet" href="app.css?v=20261127.1932">
 </head>
 <body>
 <svg width="0" height="0" style="position:absolute" aria-hidden="true"><defs>
@@ -216,38 +216,38 @@
 <style id="pageStyle"></style>
 <div class="toast" id="toast" popover="manual" hidden></div>
 
-<script src="version.js?v=20261127.1925"></script>
-<script src="fonts/fonts.js?v=20261127.1925"></script>
-<script src="fonts/webfonts.js?v=20261127.1925"></script>
+<script src="version.js?v=20261127.1932"></script>
+<script src="fonts/fonts.js?v=20261127.1932"></script>
+<script src="fonts/webfonts.js?v=20261127.1932"></script>
 <script src="assets.js?v=064ae0db4d"></script>
 <script src="assets-brand.js?v=73aa2617a4"></script>
-<script src="defaults.js?v=20261127.1925"></script>
-<script src="ai.js?v=20261127.1925"></script>
-<script src="storage.js?v=20261127.1925"></script>
-<script src="gdrive.js?v=20261127.1925"></script>
-<script src="live.js?v=20261127.1925"></script>
-<script src="lib.js?v=20261127.1925"></script>
-<script src="calendar.js?v=20261127.1925"></script>
-<script src="templates.js?v=20261127.1925"></script>
-<script src="templates2.js?v=20261127.1925"></script>
-<script src="templates3.js?v=20261127.1925"></script>
-<script src="templates4.js?v=20261127.1925"></script>
-<script src="templates5.js?v=20261127.1925"></script>
-<script src="templates6.js?v=20261127.1925"></script>
-<script src="templates7.js?v=20261127.1925"></script>
-<script src="effects.js?v=20261127.1925"></script>
-<script src="imgedit.js?v=20261127.1925"></script>
-<script src="elements.js?v=20261127.1925"></script>
-<script src="news.js?v=20261127.1925"></script>
-<script src="astream.js?v=20261127.1925"></script>
-<script src="media.js?v=20261127.1925"></script>
-<script src="vtemplates.js?v=20261127.1925"></script>
-<script src="video.js?v=20261127.1925"></script>
-<script src="manual.js?v=20261127.1925"></script>
-<script src="aichat.js?v=20261127.1925"></script>
-<script src="aistudio.js?v=20261127.1925"></script>
-<script src="book.js?v=20261127.1925"></script>
-<script src="import.js?v=20261127.1925"></script>
-<script src="app.js?v=20261127.1925"></script>
+<script src="defaults.js?v=20261127.1932"></script>
+<script src="ai.js?v=20261127.1932"></script>
+<script src="storage.js?v=20261127.1932"></script>
+<script src="gdrive.js?v=20261127.1932"></script>
+<script src="live.js?v=20261127.1932"></script>
+<script src="lib.js?v=20261127.1932"></script>
+<script src="calendar.js?v=20261127.1932"></script>
+<script src="templates.js?v=20261127.1932"></script>
+<script src="templates2.js?v=20261127.1932"></script>
+<script src="templates3.js?v=20261127.1932"></script>
+<script src="templates4.js?v=20261127.1932"></script>
+<script src="templates5.js?v=20261127.1932"></script>
+<script src="templates6.js?v=20261127.1932"></script>
+<script src="templates7.js?v=20261127.1932"></script>
+<script src="effects.js?v=20261127.1932"></script>
+<script src="imgedit.js?v=20261127.1932"></script>
+<script src="elements.js?v=20261127.1932"></script>
+<script src="news.js?v=20261127.1932"></script>
+<script src="astream.js?v=20261127.1932"></script>
+<script src="media.js?v=20261127.1932"></script>
+<script src="vtemplates.js?v=20261127.1932"></script>
+<script src="video.js?v=20261127.1932"></script>
+<script src="manual.js?v=20261127.1932"></script>
+<script src="aichat.js?v=20261127.1932"></script>
+<script src="aistudio.js?v=20261127.1932"></script>
+<script src="book.js?v=20261127.1932"></script>
+<script src="import.js?v=20261127.1932"></script>
+<script src="app.js?v=20261127.1932"></script>
 </body>
 </html>

diff --git a/app.css b/app.css
@@ -2429,3 +2429,6 @@ table.dvinfo th{font-weight:700}
 .mmbox .mmppl label{display:flex;align-items:center;gap:4px;font-size:12px;white-space:nowrap;overflow:hidden;text-overflow:ellipsis;cursor:pointer}
 .mmbox .mmppl label span{color:var(--ui-muted);font-size:10.5px;min-width:16px;text-align:right}
 .mmbox .mmppl label.off{opacity:.45;text-decoration:line-through}
+/* 11/27 모아 찍기 이름표·라벨(10~24쪽) */
+.prnup .prnup-more{display:flex;align-items:center;gap:6px;flex-basis:100%;flex-wrap:wrap;margin-top:4px}
+.prnup .prnup-more .seg button{padding-left:6px;padding-right:6px}

diff --git a/version.js b/version.js
@@ -1,1 +1,1 @@
-window.NARACAL_VER = "20261127.1925";
+window.NARACAL_VER = "20261127.1932";

diff --git a/작업인계.md b/작업인계.md
@@ -2306,3 +2306,6 @@
 - **엑셀 열 이름 줄 찾기**: 맨 위 제목 줄(「2026 송년회 명단」·작성일 등)을 건너뛰고 열 이름 줄을 저절로(`mmXHeadGuess` — 앞 8줄 중 이름·성명 같은 머리글이 있는 줄, 없으면 칸이 충분히 찬 첫 줄), 창에서 「열 이름 줄」 고르기(`mmX.hr`). 상장 「엑셀 파일에서」도 같은 방식으로 건너뜀. 확인: 제목·빈 줄·작성일 줄 뒤 4째 줄 머리글 → 3째(글 있는 줄 기준) 자동, 성명 열, 2줄.
 - **합칠 때 진 쪽 값 남기기**(11/27 (3) 남은 것): `mergeTheirs`에서 합친 결과에 같은 곳 충돌(`NC.live.lastMerge.conf`)이 있거나 기준판 없이 모아 합쳤으면, 상대 판 전체를 버전 기록에 이름표 「합치기 전 ○○ 판 (같은 곳 N곳)」으로 남김(`store.snapshot` 메모 — 이름표 붙은 기록은 40개 정리에서 안 지움). 알림 글도 그 이름을 알려 줌. 확인: 같은 글을 두 판이 다르게 고침 → `conf` 1(이 PC 글이 이김), 가짜 폴더(OPFS)에 이름표 기록 쓰기·목록 읽기 됨. 실제 두 PC 합치기 때 버전 기록 창에 보이는지는 팀장님 확인 남음.
 - **출력 창 값이 빈 사람 알림**: `mmEmptyInfo(mmSel())` — 문서에 쓴 {{열}}·{기본 칸}마다 값이 빈 사람 수·이름(3명까지) 「ℹ 값이 빈 사람 — {{보호자}} 1명(박서연) · {반} 2명…」. 확인: 보호자 빈 박서연·반 없는 엑셀 명단.
+- **매뉴얼 첫 그림(m01-overview) 속성 창 탭**: 예전 그림의 오른쪽 속성 창 부분(x 603~800, 위 막대 아래)만 새 화면(QA 2027 인성 캘린더 표지 글 고름 — 탭 띠 보임)으로 바꿔 끼움 — 위 막대·왼쪽 번호 자리는 그대로. 번호 「속성 탭」 하나 더함.
+- **엑셀 숫자 칸 서식**: `xlNum(n, 서식)` — 천 단위 쉼표·소수 자리·%·자리 맞춤(00)·따옴표 글자("원"·"명"·"제…회")·음수 칸(괄호) 흉내, 기본 서식 번호 2·3·4·9·10·37~40. 확인: 가짜 xlsx 30000 `#,##0"원"` → 30,000원, 0.953 `0.0%` → 95.3%, 7 `00` → 07.
+- **모아 찍기 이름표·라벨**: 출력 창 모아 찍기에 「이름표·라벨 10·12·16·21·24」(`PR_NUP_GRID` 10 [5×2/2×5]·12·16·21 [7×3]·24 [8×3], 아이콘 `PIC.nup`). 메일머지 + 모아 찍기면 미리 보기 종이에 사람들이 차례로(`pvHTML` — `mmJobs(list, true)`로 칸 채움, 아래 글은 이름 4명까지). 확인: 90×50 이름표 12명 → 10칸(5×2, 97.7%) 2장, 1장에 김나라~장시우.
